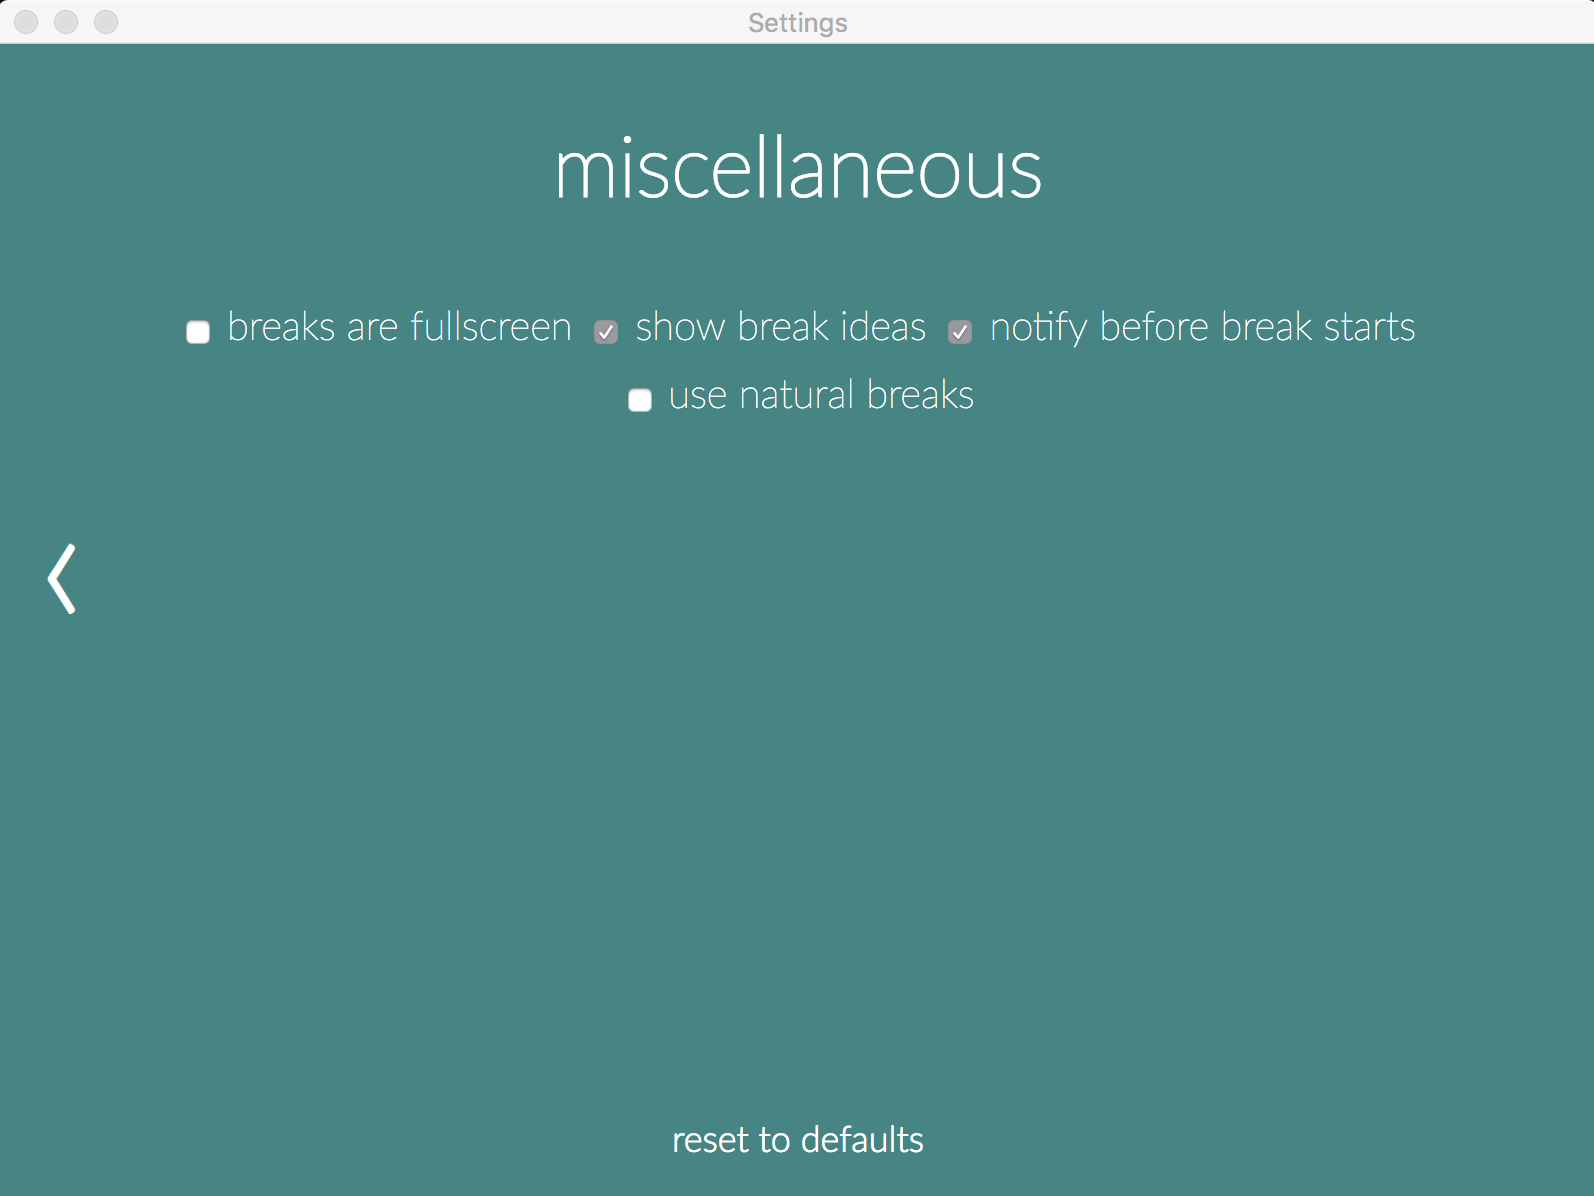
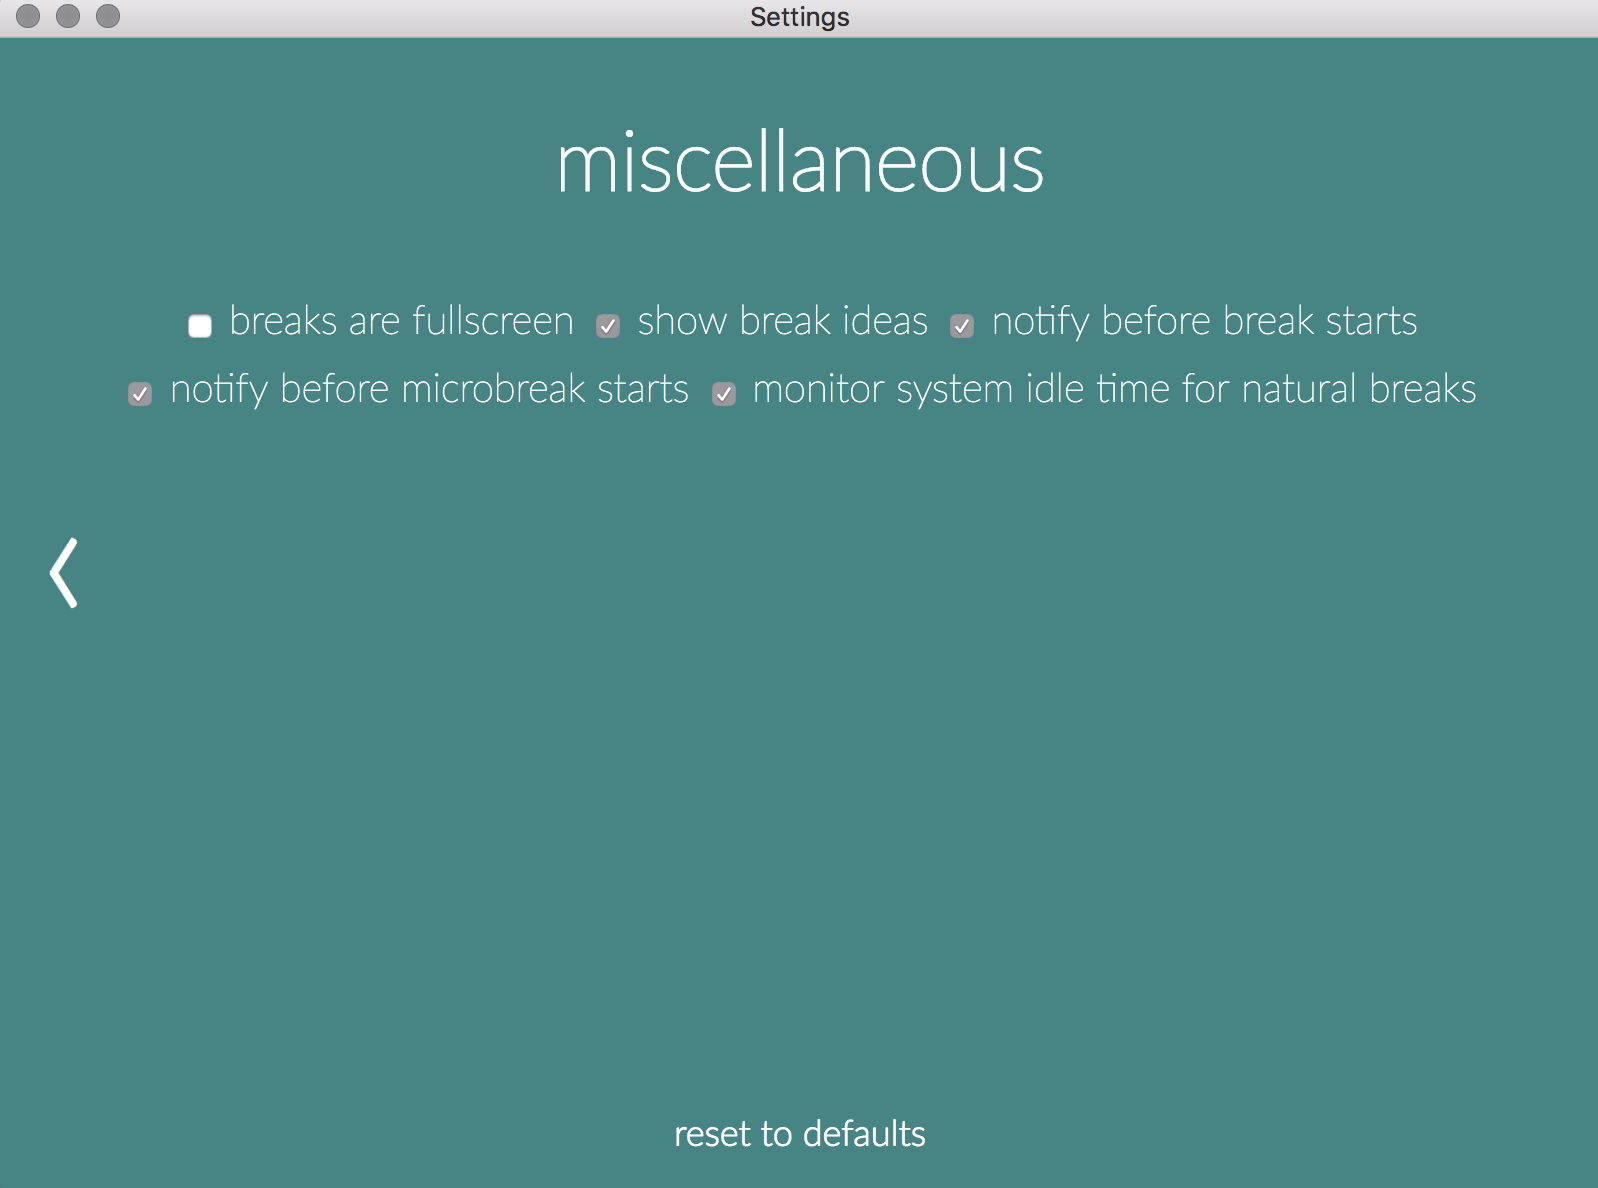
Edit Microbreak notification behaviour
- can be disabled
- is 10 seconds before

diff --git a/app/breaksPlanner.js b/app/breaksPlanner.js
@@ -44,9 +44,11 @@ class BreaksPlanner extends EventEmitter {
     let interval = this.settings.get('microbreakInterval')
     let breakNotification = this.settings.get('breakNotification')
     let breakNotificationInterval = this.settings.get('breakNotificationInterval')
+    let microbreakNotification = this.settings.get('microbreakNotification')
+    let microbreakNotificationInterval = this.settings.get('microbreakNotificationInterval')
     if (!shouldBreak && shouldMicrobreak) {
-      if (breakNotification) {
-        this.scheduler = new Scheduler(() => this.emit('startMicrobreakNotification'), interval - breakNotificationInterval, 'startMicrobreakNotification')
+      if (microbreakNotification) {
+        this.scheduler = new Scheduler(() => this.emit('startMicrobreakNotification'), interval - microbreakNotificationInterval, 'startMicrobreakNotification')
       } else {
         this.scheduler = new Scheduler(() => this.emit('startMicrobreak'), interval, 'startMicrobreak')
       }
@@ -66,8 +68,8 @@ class BreaksPlanner extends EventEmitter {
           this.scheduler = new Scheduler(() => this.emit('startBreak'), interval, 'startBreak')
         }
       } else {
-        if (breakNotification) {
-          this.scheduler = new Scheduler(() => this.emit('startMicrobreakNotification'), interval - breakNotificationInterval, 'startMicrobreakNotification')
+        if (microbreakNotification) {
+          this.scheduler = new Scheduler(() => this.emit('startMicrobreakNotification'), interval - microbreakNotificationInterval, 'startMicrobreakNotification')
         } else {
           this.scheduler = new Scheduler(() => this.emit('startMicrobreak'), interval, 'startMicrobreak')
         }
@@ -78,7 +80,12 @@ class BreaksPlanner extends EventEmitter {
 
   nextBreakAfterNotification (name) {
     if (this.scheduler) this.scheduler.cancel()
-    let breakNotificationInterval = this.settings.get('breakNotificationInterval')
+    let breakNotificationInterval
+    if (name === 'startMicrobreak') {
+      breakNotificationInterval = this.settings.get('microbreakNotificationInterval')
+    } else {
+      breakNotificationInterval = this.settings.get('breakNotificationInterval')
+    }
     this.scheduler = new Scheduler(() => this.emit(name), breakNotificationInterval, name)
     this.scheduler.plan()
   }

diff --git a/app/main.js b/app/main.js
@@ -104,7 +104,7 @@ function checkVersion () {
 }
 
 function startMicrobreakNotification () {
-  processWin.webContents.send('showNotification', `Microbreak in ${settings.get('breakNotificationInterval') / 1000} seconds...`)
+  processWin.webContents.send('showNotification', `Microbreak in ${settings.get('microbreakNotificationInterval') / 1000} seconds...`)
   breakPlanner.nextBreakAfterNotification('startMicrobreak')
 }
 

diff --git a/app/settings3.js b/app/settings3.js
@@ -24,5 +24,6 @@ ipcRenderer.on('renderSettings', (event, data) => {
 })
 
 document.getElementById('defaults').addEventListener('click', function (e) {
-  ipcRenderer.send('set-default-settings', ['fullscreen', 'ideas', 'breakNotification', 'naturalBreaks'])
+  ipcRenderer.send('set-default-settings', ['fullscreen', 'ideas',
+    'breakNotification', 'microbreakNotification', 'naturalBreaks'])
 })

diff --git a/app/settings3.html b/app/settings3.html
@@ -20,6 +20,10 @@
         notify before break starts
       </div>
       <div class="enabled">
+        <input type="checkbox" value="microbreakNotification" class="enable">
+        notify before microbreak starts
+      </div>
+      <div class="enabled">
         <input type="checkbox" value="naturalBreaks" class="enable">
         monitor system idle time for natural breaks
       </div>

diff --git a/app/utils/defaultSettings.js b/app/utils/defaultSettings.js
@@ -4,7 +4,9 @@ module.exports = {
   breakDuration: 300000,
   breakInterval: 2,
   breakNotification: true,
+  microbreakNotification: true,
   breakNotificationInterval: 30000,
+  microbreakNotificationInterval: 10000,
   microbreak: true,
   break: true,
   microbreakStrictMode: false,

diff --git a/README.md b/README.md
@@ -48,7 +48,7 @@ Microbreaks and breaks can be customized:
 
 - you can set break window to be fullscreen
 - you can disable showing of break ideas
-- you can disable showing of break notifications
+- you can disable showing of break and microbreak notifications
 - you can disable monitoring of system idle time for natural breaks (when user leaves and after return idle time is greater then break duration, *stretchly* will reset breaks)
 
 <img src="https://raw.githubusercontent.com/hovancik/stretchly/master/stretchly-settings-website-3.png" height="340">
@@ -69,7 +69,7 @@ In config file, change `useIdeasFromSettings: false,` to `useIdeasFromSettings: 
 `breakIdeas` and `microbreakIdeas`.
 
 #### Editing break/microbreak notification interval
-In config file, change `breakNotificationInterval: 30000,` to whatever value you want. 30000 is 30 seconds.
+In config file, change `breakNotificationInterval: 30000,` to whatever value you want. 30000 is 30 seconds. Sane goes for microbreak.
 
 ## Install [![Github All Releases](https://img.shields.io/github/downloads/hovancik/stretchly/total.svg)](https://github.com/hovancik/stretchly/releases/latest)
 

diff --git a/CHANGELOG.md b/CHANGELOG.md
@@ -12,6 +12,9 @@ and this project adheres to [Semantic Versioning](http://semver.org/).
 ### Added
 - monitoring of system idle time for natural breaks (when user leaves and after return idle time is greater then break duration, *stretchly* will reset breaks)
 
+### Changed
+- microbreak notifications are 10 seconds before and can be disabled
+
 ## [0.11.0] - 2017-09-09
 ### Added
 - option to not show break ideas
